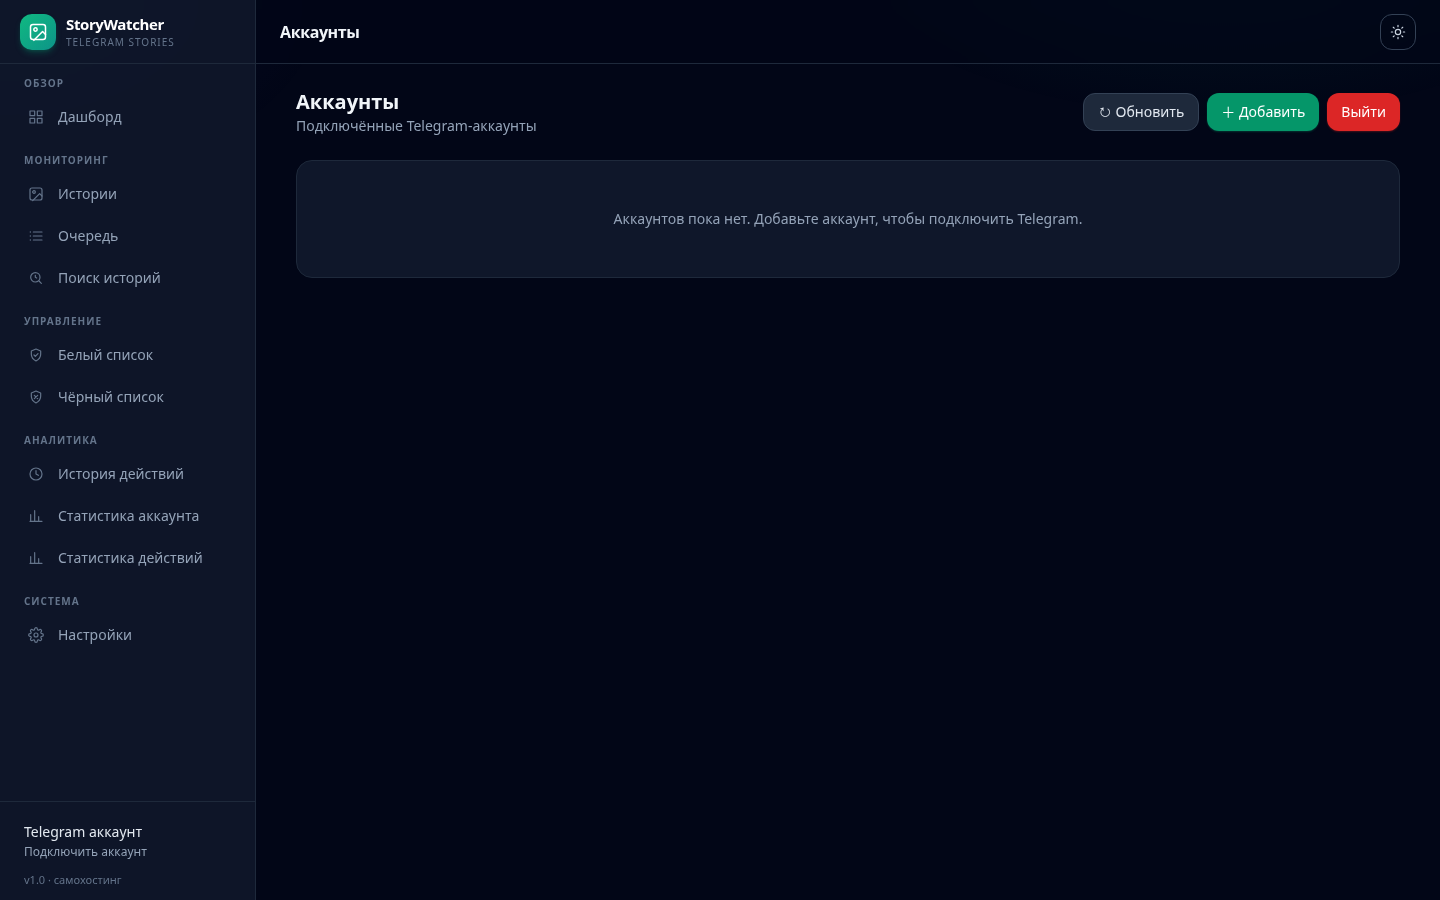
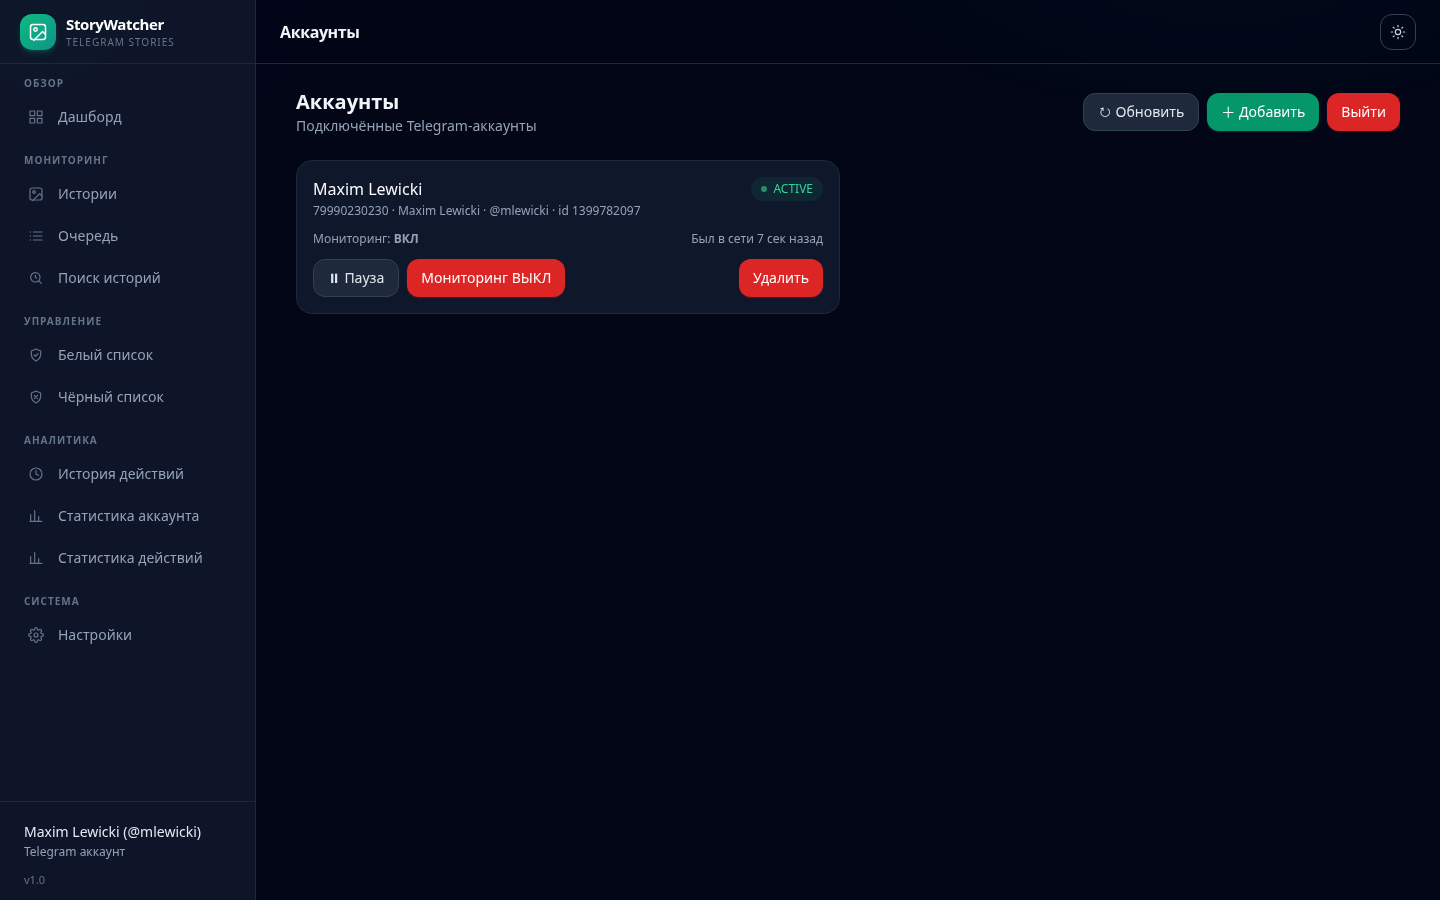
update screenshots

Changed region(s): [[0.2188, 0.1867, 0.75, 0.3422], [0.0, 0.9022, 0.125, 0.9644]]

diff --git a/frontend/components/Sidebar.tsx b/frontend/components/Sidebar.tsx
@@ -44,7 +44,7 @@ function MobileSidebarTrigger({ onToggle }: { onToggle: () => void; open: boolea
   }, [onToggle]);
   return null;
 }
-function SidebarAccount() { const { data, refresh } = useFetch<Account[]>((signal) => api.get("/accounts", signal), []); const account = data?.[0]; React.useEffect(() => { const handler = () => refresh(); window.addEventListener("storywatcher:account-updated", handler); return () => window.removeEventListener("storywatcher:account-updated", handler); }, [refresh]); const fullName = [account?.first_name, account?.last_name].filter(Boolean).join(" "); return <div className="border-t border-slate-100 p-3 dark:border-slate-800"><Link href="/accounts" className="block rounded-xl px-3 py-2 transition-colors hover:bg-slate-100 dark:hover:bg-slate-800"><div className="truncate text-sm font-medium text-slate-700 dark:text-slate-200">{fullName || "Telegram аккаунт"}{account?.username ? ` (@${account.username})` : ""}</div><div className="mt-0.5 truncate text-xs text-slate-400">{account ? "Telegram аккаунт" : "Подключить аккаунт"}</div></Link><div className="px-3 pt-1 text-[11px] text-slate-400 dark:text-slate-500">v1.0 · самохостинг</div></div>; }
+function SidebarAccount() { const { data, refresh } = useFetch<Account[]>((signal) => api.get("/accounts", signal), []); const account = data?.[0]; React.useEffect(() => { const handler = () => refresh(); window.addEventListener("storywatcher:account-updated", handler); return () => window.removeEventListener("storywatcher:account-updated", handler); }, [refresh]); const fullName = [account?.first_name, account?.last_name].filter(Boolean).join(" "); return <div className="border-t border-slate-100 p-3 dark:border-slate-800"><Link href="/accounts" className="block rounded-xl px-3 py-2 transition-colors hover:bg-slate-100 dark:hover:bg-slate-800"><div className="truncate text-sm font-medium text-slate-700 dark:text-slate-200">{fullName || "Telegram аккаунт"}{account?.username ? ` (@${account.username})` : ""}</div><div className="mt-0.5 truncate text-xs text-slate-400">{account ? "Telegram аккаунт" : "Подключить аккаунт"}</div></Link><div className="px-3 pt-1 text-[11px] text-slate-400 dark:text-slate-500">v1.0</div></div>; }
 function NavLink({ item, onNavigate }: { item: NavItem; onNavigate?: () => void }) { const pathname = usePathname(); const active = item.href === "/" ? pathname === "/" : pathname.startsWith(item.href); return <Link href={item.href} onClick={onNavigate} className={`group relative flex items-center gap-2.5 rounded-xl px-3 py-2 text-sm font-medium transition-all ${active ? "bg-emerald-50 text-emerald-700 dark:bg-emerald-500/10 dark:text-emerald-300" : "text-slate-600 hover:bg-slate-100 hover:text-slate-900 dark:text-slate-400 dark:hover:bg-slate-800 dark:hover:text-slate-100"}`}><span className={`flex h-6 w-6 items-center justify-center rounded-lg transition-colors ${active ? "text-emerald-600 dark:text-emerald-400" : "text-slate-400 group-hover:text-slate-600 dark:text-slate-500 dark:group-hover:text-slate-300"}`}><Icon name={item.icon} className="h-4 w-4" /></span>{item.label}{active && <span className="absolute left-0 top-1/2 h-5 w-1 -translate-y-1/2 rounded-r-full bg-emerald-500" />}</Link>; }
 const PAGE_TITLES: Record<string, string> = { "/": "Дашборд", "/accounts": "Аккаунты", "/stories": "Истории", "/queue": "Очередь", "/discovery": "Поиск историй", "/whitelist": "Белый список", "/blacklist": "Чёрный список", "/history": "История действий", "/statistics": "Статистика действий", "/analytics": "Статистика аккаунта", "/settings": "Настройки" };
 export function TopBar() { const { theme, toggle } = useTheme(); const pathname = usePathname(); const title = PAGE_TITLES[pathname] || "StoryWatcher";
